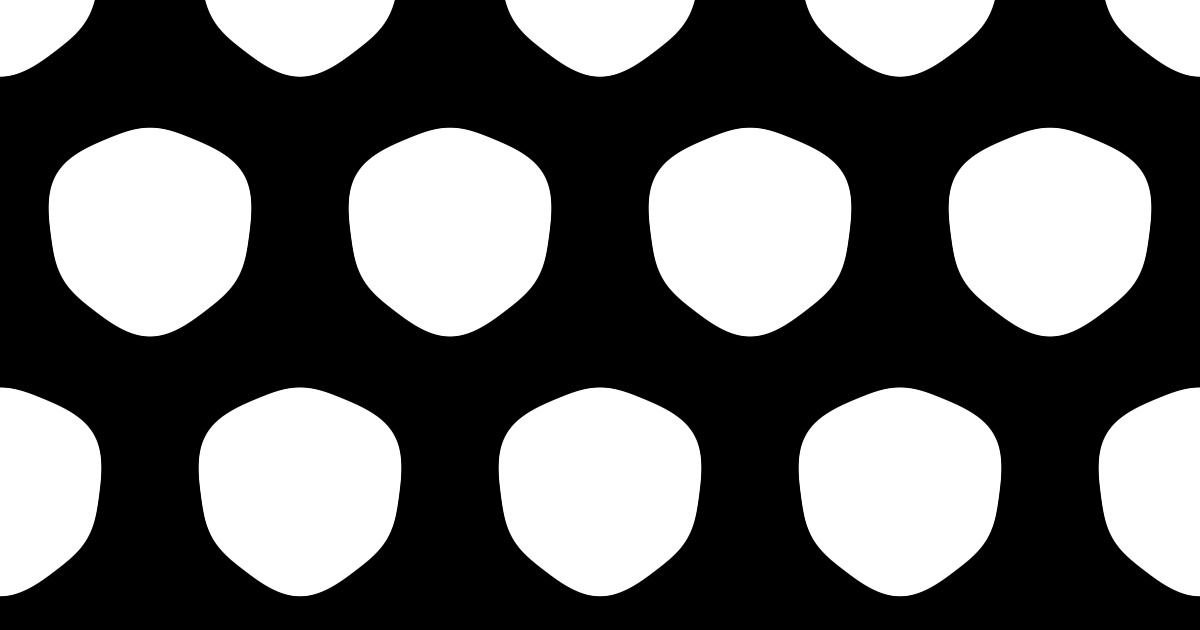
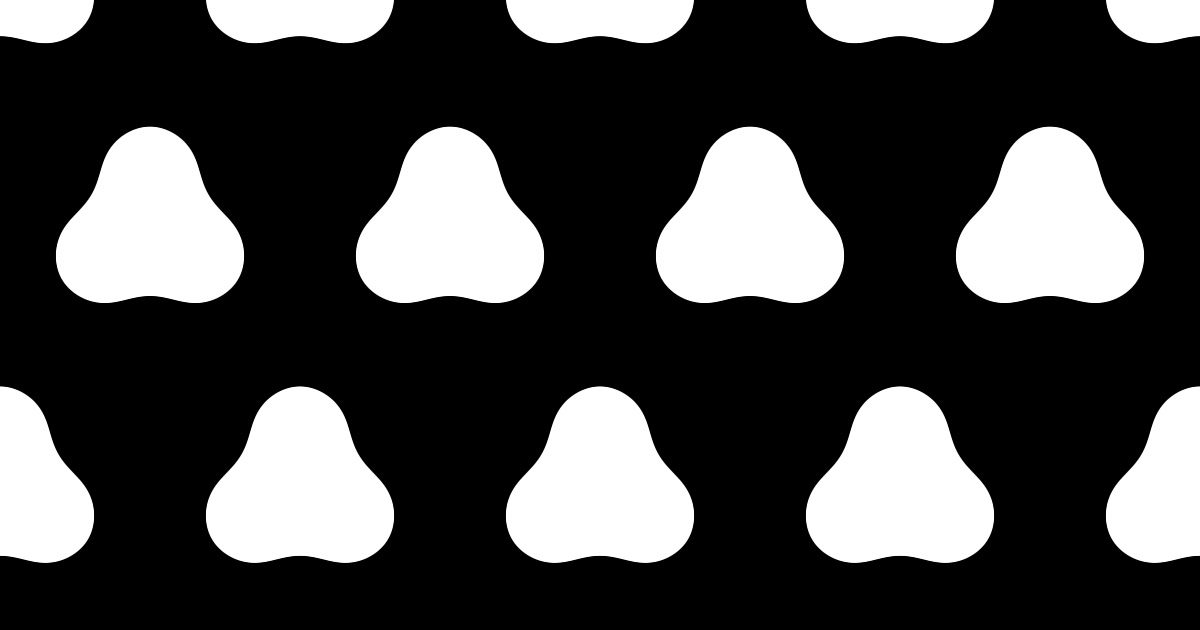
Spiral lattice monochrome: raise the cut so the white islands never merge
At w > 0 the inks traded blob and network roles six times a period; at 30.1% of max|w| the white islands neither join nor split.

diff --git a/standalone/brusselator-p3-mono/public/index.html b/standalone/brusselator-p3-mono/public/index.html
@@ -6,11 +6,11 @@
   <meta name="theme-color" content="#000000">
   <meta name="apple-mobile-web-app-capable" content="yes">
   <meta name="apple-mobile-web-app-status-bar-style" content="black-translucent">
-  <meta name="description" content="A Brusselator oscillatory spiral lattice with threefold (p3) symmetry, drawn in black and white only: white where the pattern is higher than it will be half a period later. Wait half a period and black and white swap places.">
+  <meta name="description" content="A Brusselator oscillatory spiral lattice with threefold (p3) symmetry, drawn in black and white only: white islands where the pattern is well above what it will be half a period later.">
   <title>Spiral Lattice Monochrome — Brusselator p3</title>
   <meta property="og:type" content="website">
   <meta property="og:title" content="Spiral Lattice Monochrome — Black and white Brusselator wave">
-  <meta property="og:description" content="Only black and white, pulsing in threefold symmetry. Wait half a period and black and white swap places.">
+  <meta property="og:description" content="Only black and white: threefold islands turning and breathing in step.">
   <meta property="og:url" content="https://brusselator-p3-spiral-mono.mathornament.workers.dev/">
   <meta property="og:image" content="https://brusselator-p3-spiral-mono.mathornament.workers.dev/social-preview.jpg">
   <meta property="og:image:type" content="image/jpeg">
@@ -19,7 +19,7 @@
   <meta property="og:image:alt" content="A repeating black-and-white lattice with threefold symmetry, captured from the Spiral Lattice Monochrome animation.">
   <meta name="twitter:card" content="summary_large_image">
   <meta name="twitter:title" content="Spiral Lattice Monochrome — Black and white Brusselator wave">
-  <meta name="twitter:description" content="Only black and white, pulsing in threefold symmetry. Wait half a period and black and white swap places.">
+  <meta name="twitter:description" content="Only black and white: threefold islands turning and breathing in step.">
   <meta name="twitter:image" content="https://brusselator-p3-spiral-mono.mathornament.workers.dev/social-preview.jpg">
   <link rel="icon" href="data:,">
   <link rel="stylesheet" href="./style.css">

diff --git a/standalone/brusselator-p3-mono/README.md b/standalone/brusselator-p3-mono/README.md
@@ -4,8 +4,10 @@ Plume Monochrome's fullscreen viewer (`docs/scott-gray/plume-monochrome/`) porte
 g227 Brusselator oscillatory spiral lattice (`equation:brusselator:g227:e47c12f9099fb9d2`,
 36×36 triangular lattice, 48 frames). `app.mjs` differs from Plume's only in the home centre,
 the zoom floor and 60° keyboard turns; `renderer.mjs` adds the triangular lattice map,
-snaps turns to sixths, and draws the sign of w(x, t) = U(x, t) − U(x, t + T/2), the
-catalog's half-period rule (`mono:half-period:daf4fcffba1a:T2`), so waiting half a period
-swaps black and white exactly.
+snaps turns to sixths, and draws w(x, t) = U(x, t) − U(x, t + T/2) > 0.426, the
+catalog's half-period rule (`mono:half-period:daf4fcffba1a:T2`) cut at 30.1% of max|w|
+instead of zero: at zero the inks trade blob/network roles six times a period, while at
+this level the white islands neither merge nor split (checked at 768 instants). The
+exact half-period colour swap is given up for that.
 
 Deploy: `npx wrangler deploy` here → https://brusselator-p3-spiral-mono.mathornament.workers.dev/
